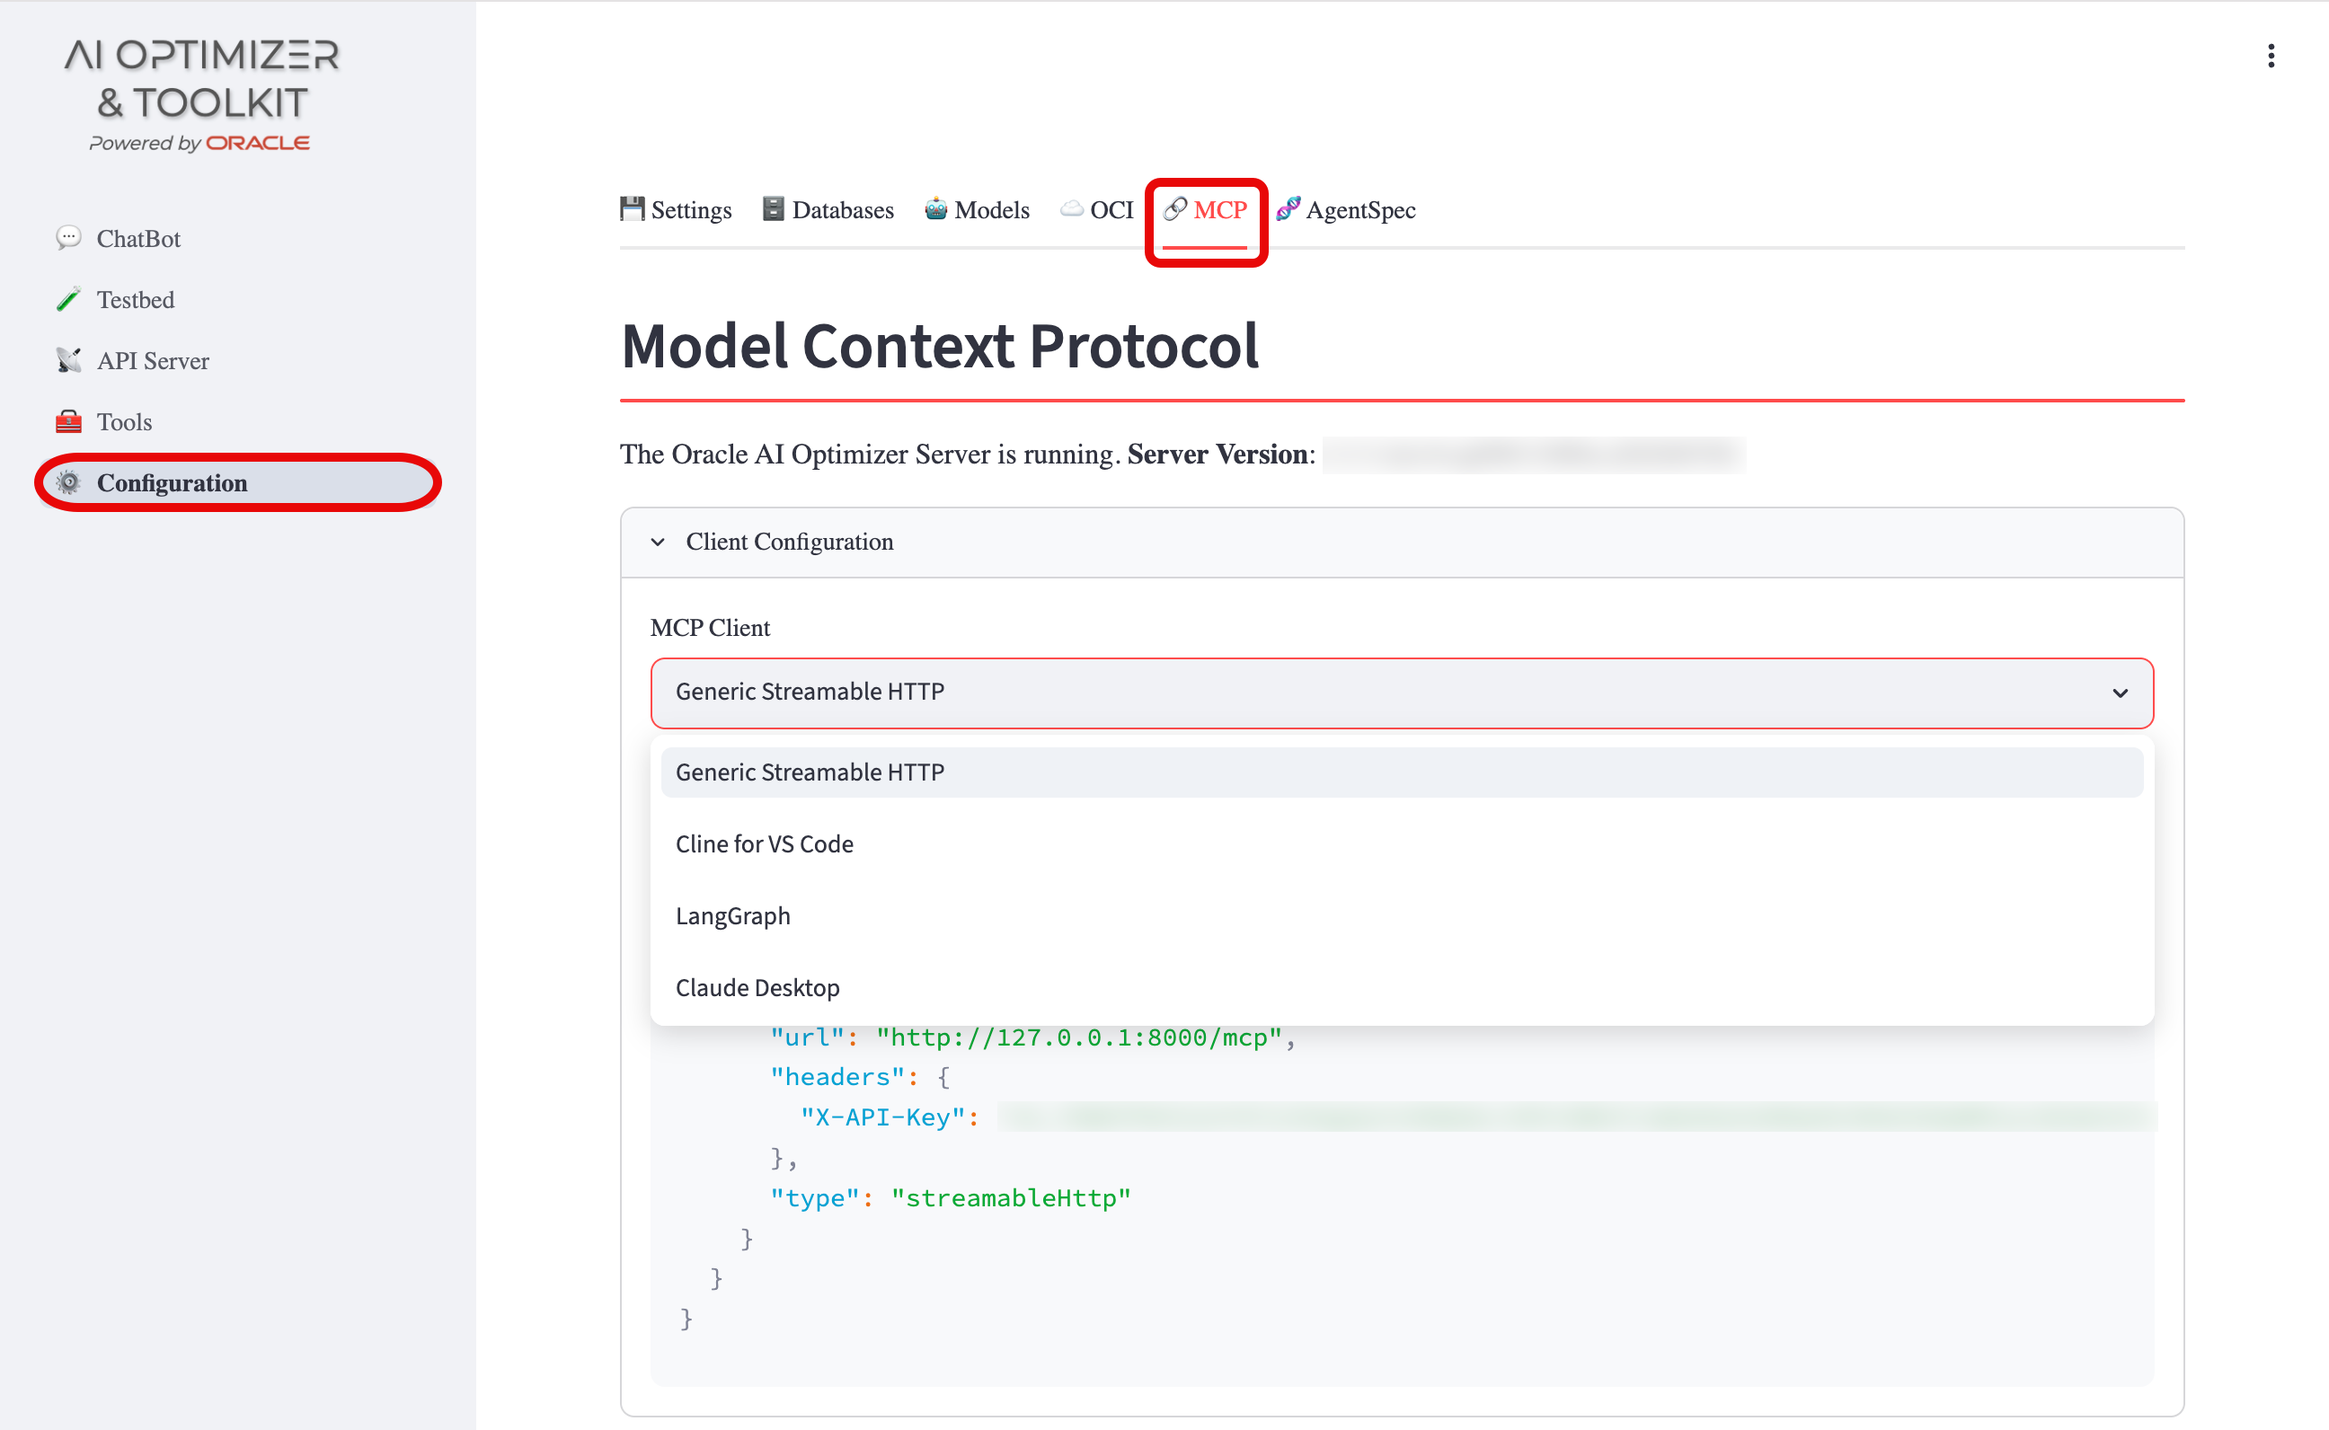
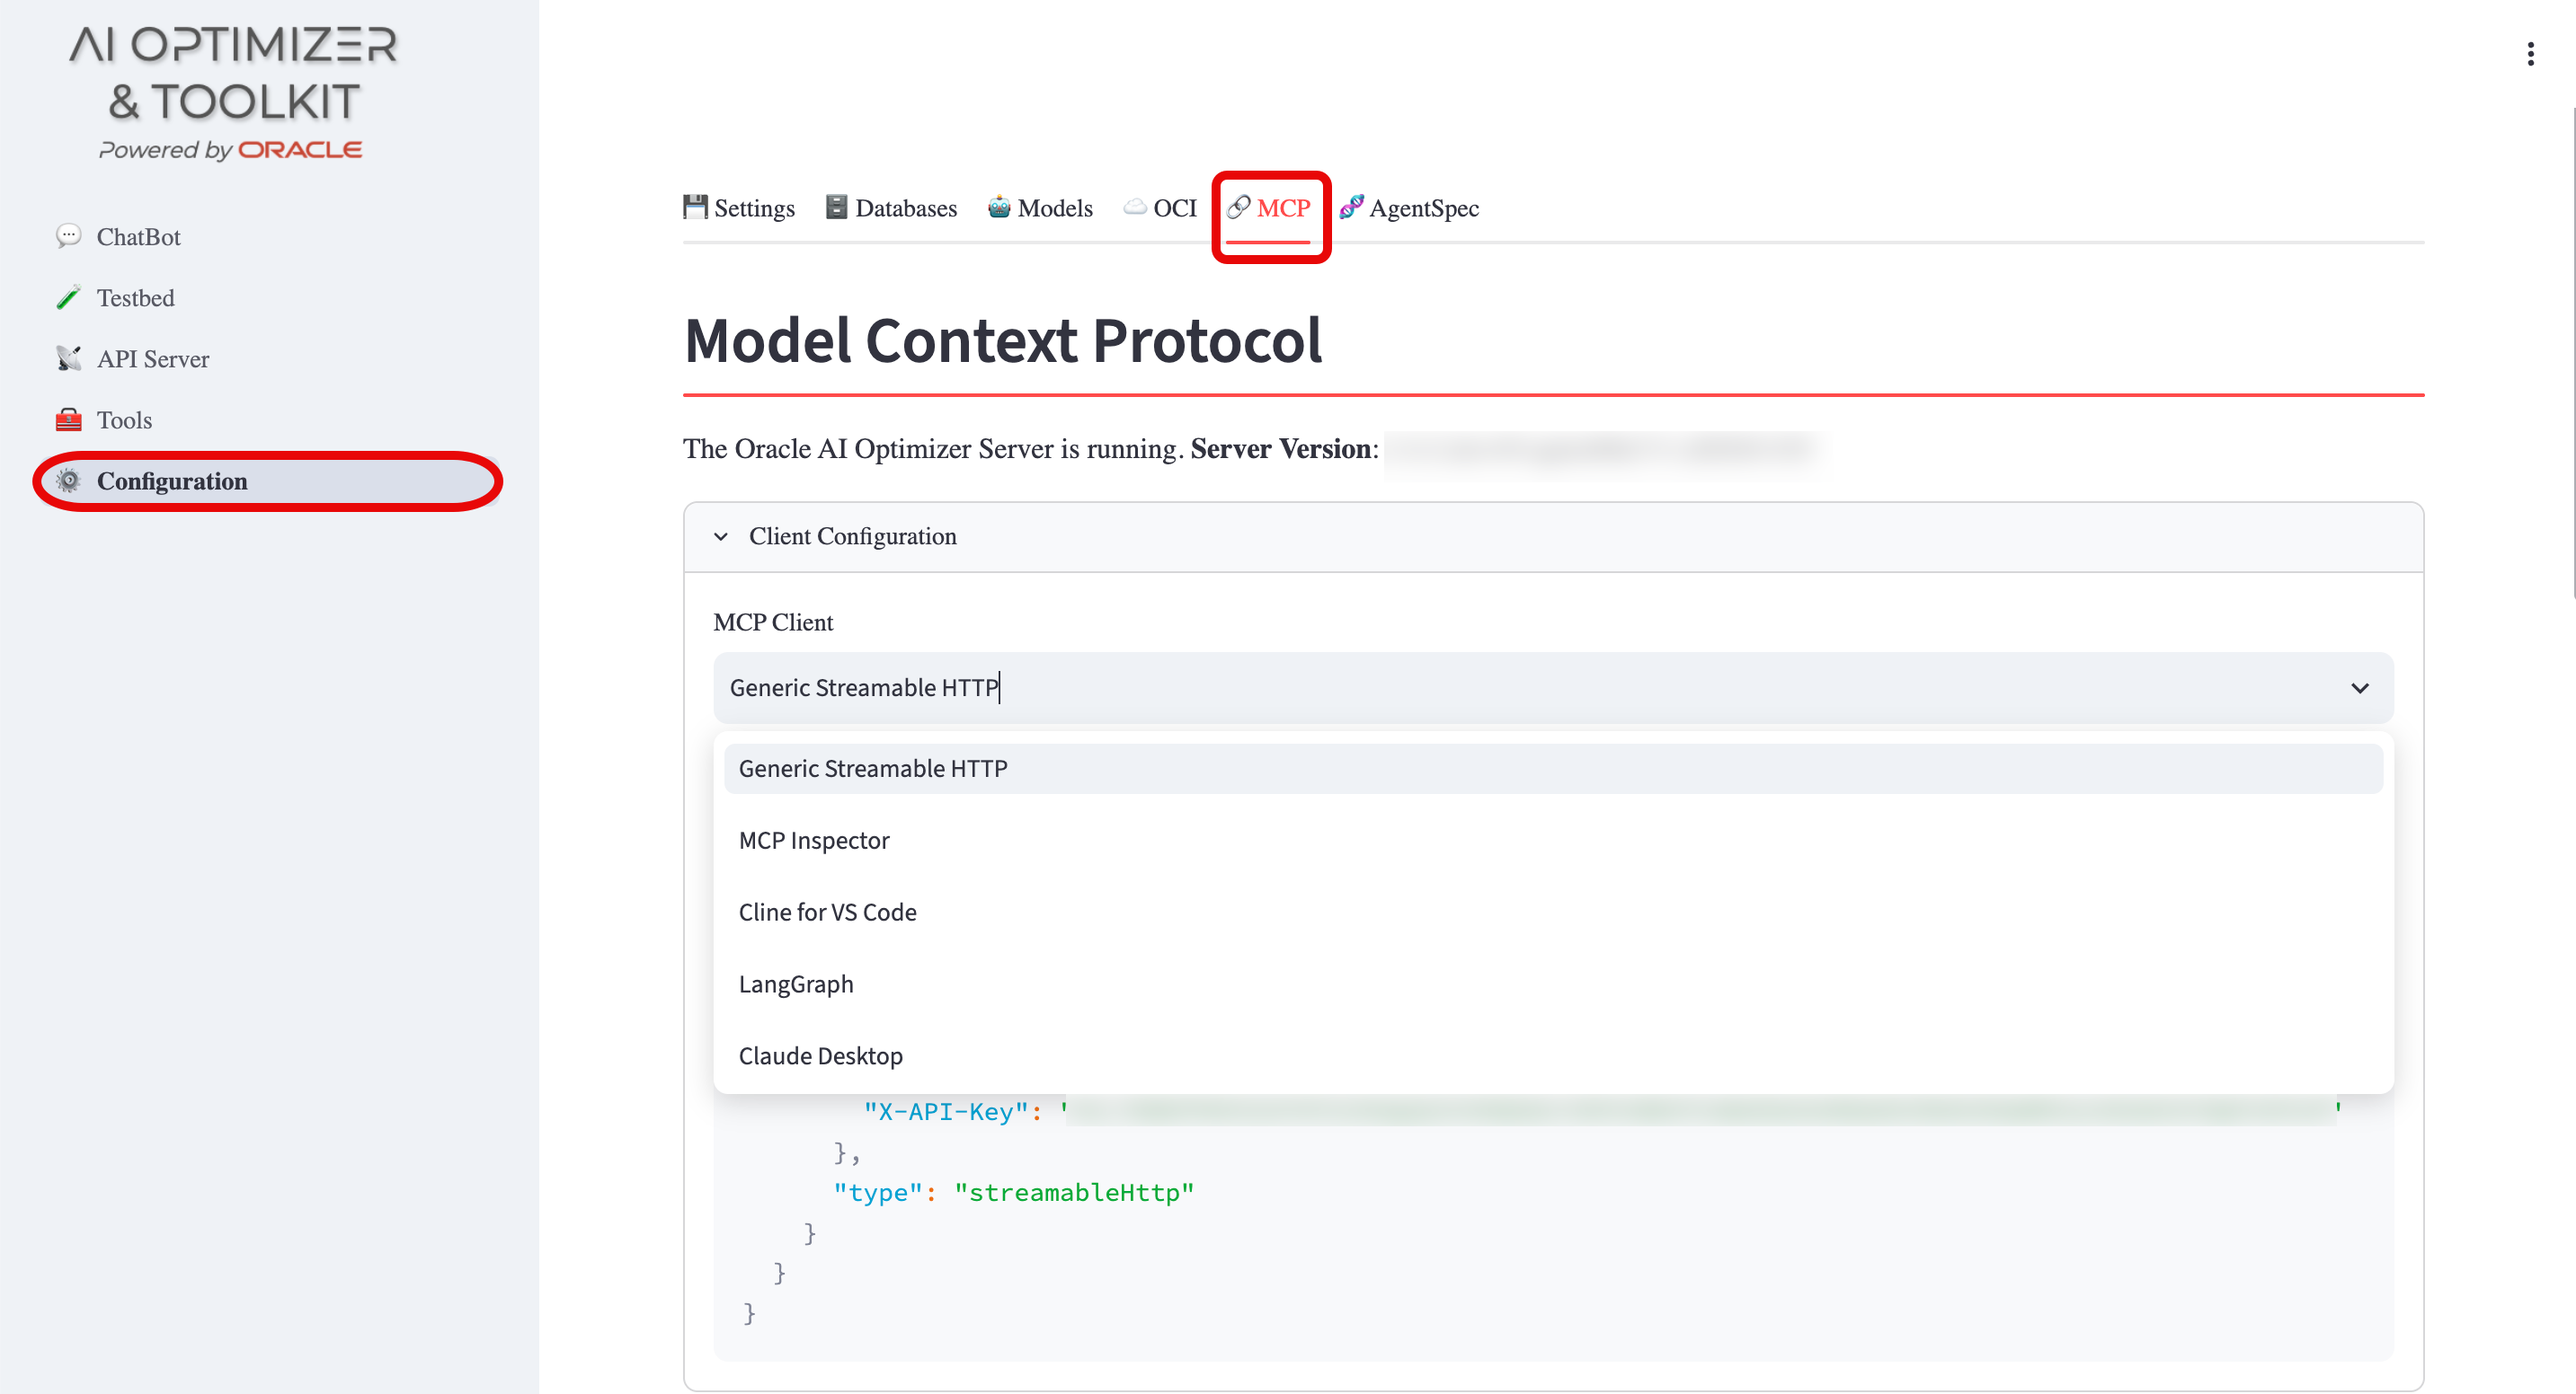
MCP Documents

diff --git a/src/client/app/content/local_database_setup.py b/src/client/app/content/local_database_setup.py
@@ -2,7 +2,7 @@
 Copyright (c) 2024, 2026, Oracle and/or its affiliates.
 Licensed under the Universal Permissive License v1.0 as shown at http://oss.oracle.com/licenses/upl.
 
-Restricted local CORE database setup page.
+Restricted local Oracle AI Database setup page.
 """
 
 import streamlit as st
@@ -16,7 +16,12 @@ def display_local_database_setup(
 ) -> LocalCoreConfig | None:
     """Render the local setup form and return a submitted configuration."""
     st.title("Configure Oracle AI Database")
-    st.write("Connect the required CORE database to start AI Optimizer.")
+    st.write("Connect to Oracle AI Database to start the AI Optimizer.")
+    st.markdown(
+        "For connection requirements and examples, see "
+        "[Oracle AI Database](https://oracle.github.io/ai-optimizer/docs/guides/database/)."
+    )
+
     if error:
         st.error(error)
 
@@ -24,7 +29,9 @@ def display_local_database_setup(
         username = st.text_input("Username", value=current.username if current else "AI_OPTIMIZER")
         password = st.text_input("Password", type="password", key="local_core_password")
         dsn = st.text_area("Connection string", value=current.dsn if current else "")
-        wallet_location = st.text_input("Wallet location (optional)", value=current.wallet_location if current else "")
+        wallet_location = st.text_input(
+            "Wallet location (optional)", value=(current.wallet_location or "") if current else ""
+        )
         wallet_password = st.text_input("Wallet password (optional)", type="password", key="local_core_wallet_password")
         submitted = st.form_submit_button("Connect and start", type="primary")
 
@@ -39,6 +46,16 @@ def display_local_database_setup(
             wallet_password=SecretStr(wallet_password) if wallet_password else None,
         )
     except ValidationError as exc:
-        missing = {error["loc"][0] for error in exc.errors()}
-        st.error(f"Complete the required database fields: {', '.join(sorted(str(field) for field in missing))}")
+        field_labels = {
+            "dsn": "connection string",
+            "password": "password",
+            "username": "username",
+            "wallet_location": "wallet location",
+            "wallet_password": "wallet password",
+        }
+        invalid_fields = {
+            field_labels.get(str(validation_error["loc"][0]), str(validation_error["loc"][0]))
+            for validation_error in exc.errors()
+        }
+        st.error(f"Check these database fields: {', '.join(sorted(invalid_fields))}")
         return None

diff --git a/src/client/tests/content/test_local_database_setup.py b/src/client/tests/content/test_local_database_setup.py
@@ -30,8 +30,15 @@ def test_unsubmitted_form_does_not_return_configuration():
 
         assert display_local_database_setup() is None
 
+    streamlit.title.assert_called_once_with("Configure Oracle AI Database")
+    streamlit.write.assert_called_once_with("Connect to Oracle AI Database to start the AI Optimizer.")
+    streamlit.markdown.assert_called_once_with(
+        "For connection requirements and examples, see "
+        "[Oracle AI Database](https://oracle.github.io/ai-optimizer/docs/guides/database/)."
+    )
 
-def test_submitted_form_returns_core_configuration():
+
+def test_submitted_form_returns_database_configuration():
     streamlit = _mock_streamlit(submitted=True)
     with patch(f"{MODULE}.st", streamlit):
         from client.app.content.local_database_setup import display_local_database_setup
@@ -51,4 +58,4 @@ def test_incomplete_form_reports_validation_error():
 
         assert display_local_database_setup() is None
 
-    streamlit.error.assert_called_once()
+    streamlit.error.assert_called_once_with("Check these database fields: connection string, password")
